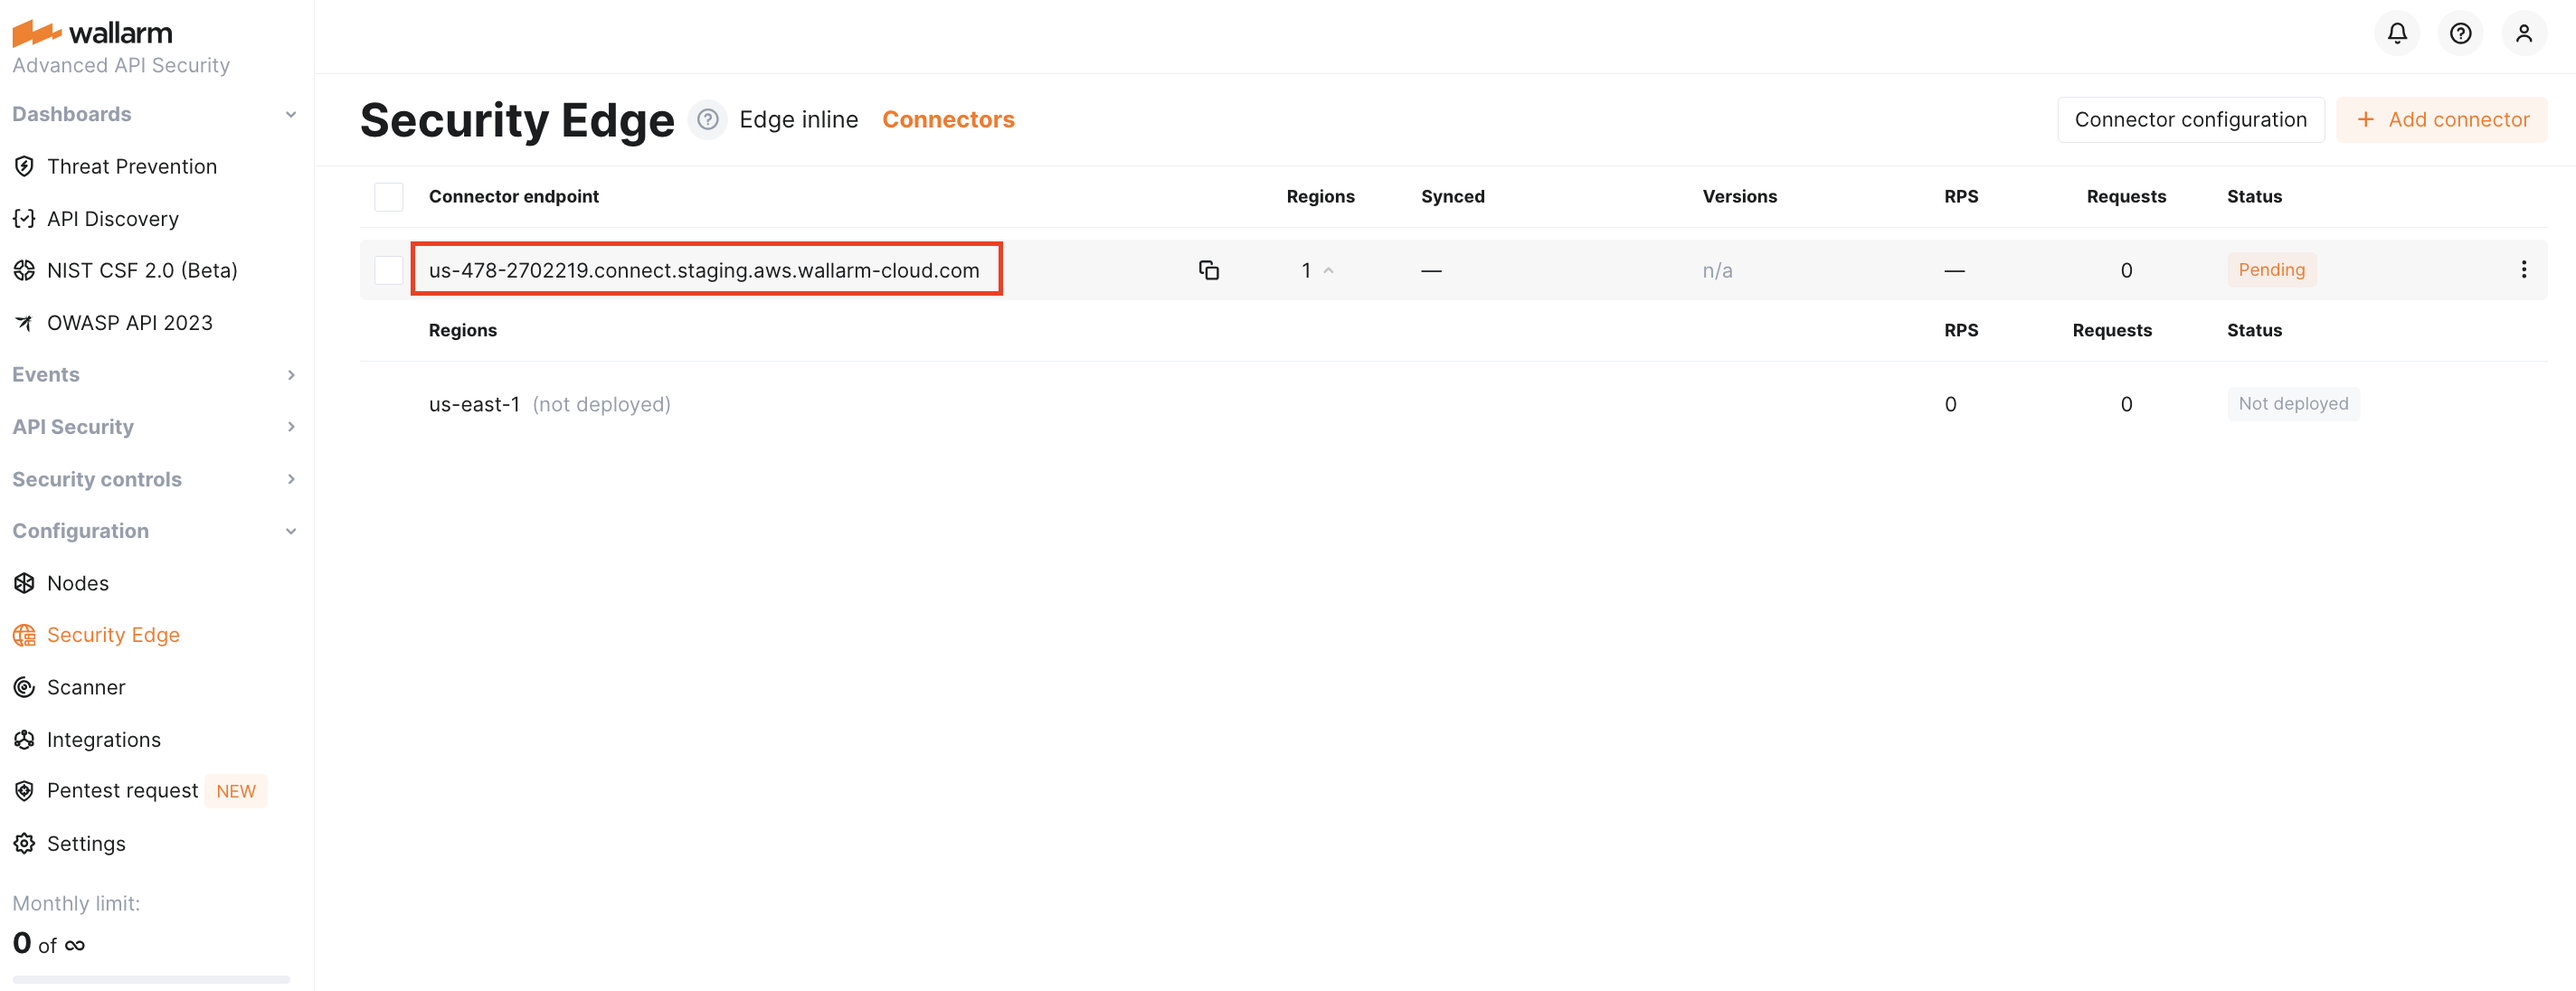
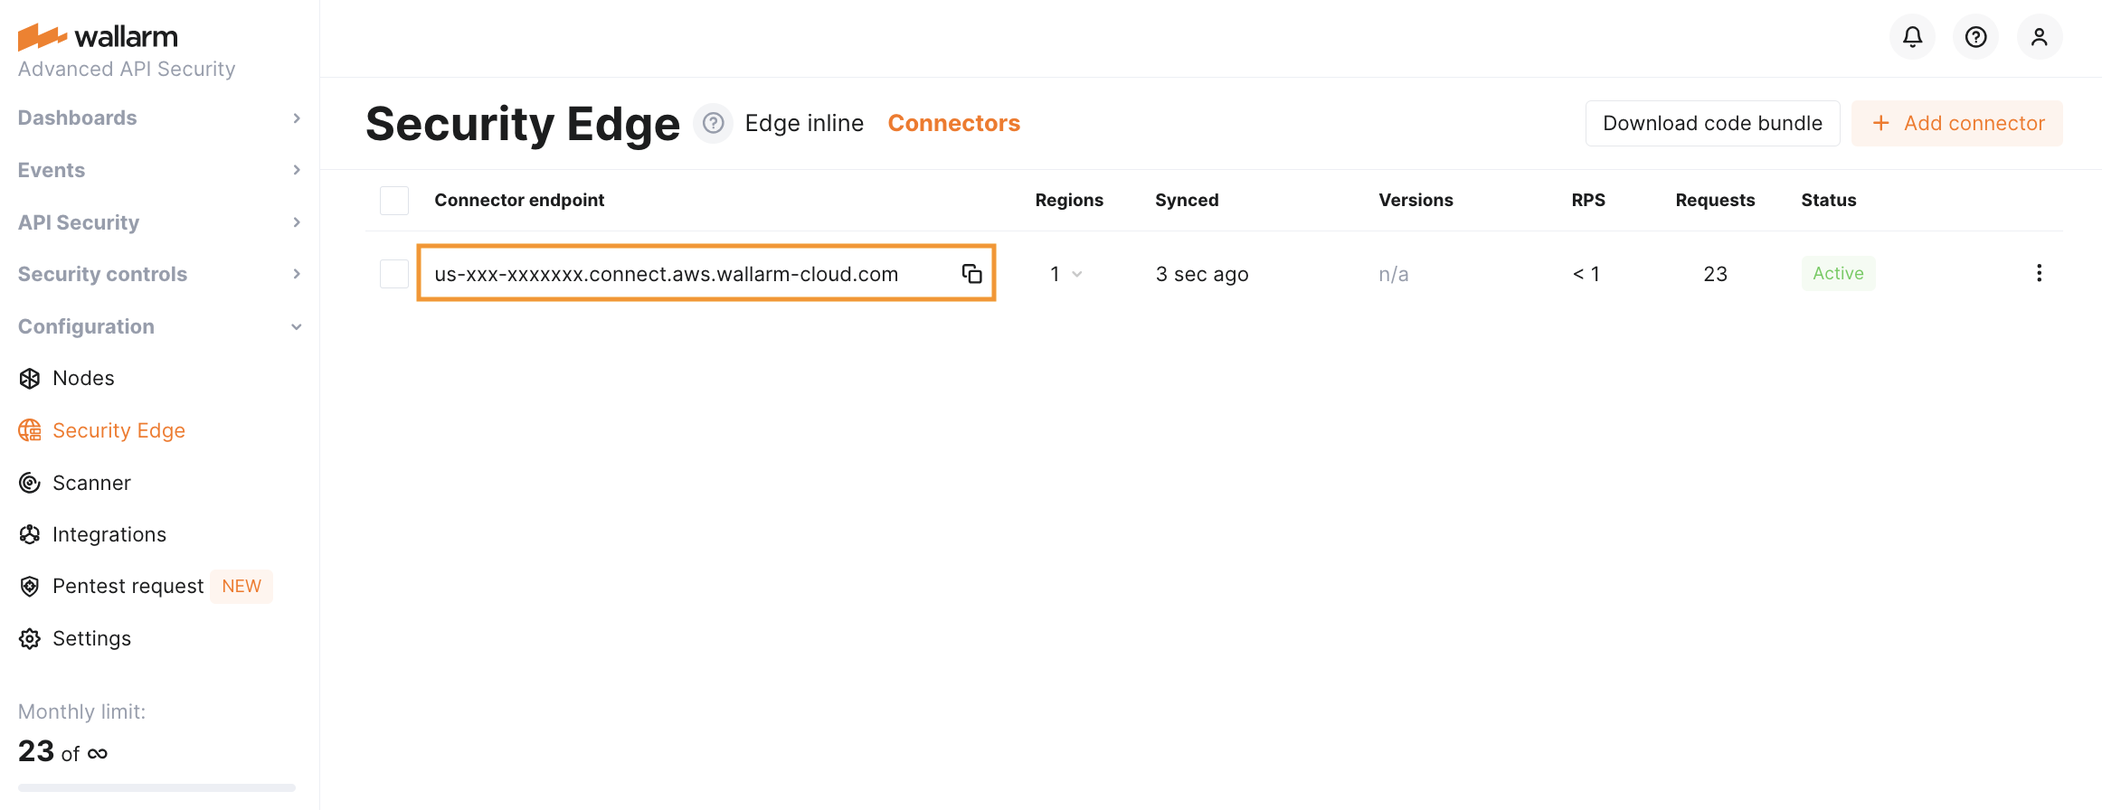
wording in the se connector descriptions

diff --git a/docs/latest/installation/se-connector.md b/docs/latest/installation/se-connector.md
@@ -19,7 +19,9 @@ Security Edge service provides a secure cloud environment where the Wallarm node
 !!! info "Supported platforms"
     Currently, Edge connectors are available only for MuleSoft, CloudFront, and Cloudflare.
 
-## Deploying the Edge node for a connector
+## Running Security Edge Connectors
+
+### 1. Deploying the Edge node for a connector
 
 You only need to specify the connector settings. Wallarm will handle the deployment and provide you with an endpoint to route traffic from your platform.
 
@@ -51,17 +53,27 @@ One endpoint can handle multiple connections from different hosts.
 
 ![!](../images/waf-installation/security-edge/connectors/copy-endpoint.png)
 
-## Injecting Wallarm code on a platform running your APIs
+You can change the Edge node deployment settings at any time while the node is in **Active** status. The node will be re-deployed, starting from the **Pending** status to **Active**. The endpoint will not change, but it will be unavailable during the re-deployment process.
 
-After deploying the Edge node, you will need to inject Wallarm code into your platform to route traffic to the deployed node. Follow the instructions below for this process:
+### 2. Injecting Wallarm code on a platform running your APIs
 
-* [MuleSoft](connectors/mulesoft.md)
-* [CloudFront](connectors/aws-lambda.md)
-* [Cloudflare](connectors/cloudflare.md)
+After deploying the Edge node, you will need to inject Wallarm code into your platform to route traffic to the deployed node.
 
-<!-- add the schreenshot with the green status and RPS and with no "staging" mentioned
-rename the "connector configuration" button the connectors
-mention that users can edit settings on the deployment SE and that can delete and what happens if they delete the SE deployment
-if the SE node, code connector is downloaded from the UI. if self-hosted, it should be requested from the sales team
-mention that we upgrade the edge node oursleves. latest stable with all features
- -->
+1. Download a code bundle for your platform from the Wallarm Console UI.
+
+    ![!](../images/waf-installation/security-edge/connectors/download-code-bundle.png)
+1. Apply the bundle on your API management platform following the instructions:
+
+    * [MuleSoft](connectors/mulesoft.md#2-obtain-and-upload-the-wallarm-policy-to-mulesoft-exchange)
+    * [CloudFront](connectors/aws-lambda.md#2-obtain-and-deploy-the-wallarm-lambdaedge-functions)
+    * [Cloudflare](connectors/cloudflare.md#2-obtain-and-deploy-the-wallarm-worker-code)
+
+## Deleting the Edge node
+
+If you delete the Edge node, its endpoint becomes unavailable, and you will no longer be able to redirect traffic through it for security analysis.
+
+The Wallarm code bundle injected into your platform will still try to reach the node endpoint specified in the bundle settings. However, it will fail with the `failed: Couldn't resolve address` error, and traffic will continue to flow to its target without passing through the Edge node.
+
+## Troubleshooting
+
+--8<-- "../include/waf/installation/security-edge/connector-troubleshooting.md"

diff --git a/docs/latest/installation/connectors/mulesoft.md b/docs/latest/installation/connectors/mulesoft.md
@@ -1,7 +1,6 @@
 [ptrav-attack-docs]:                ../../attacks-vulns-list.md#path-traversal
 [attacks-in-ui-image]:              ../../images/admin-guides/test-attacks-quickstart.png
 [filtration-mode-docs]:             ../../admin-en/configure-wallarm-mode.md
-[wallarm-hosted-connector-desc]:    ../connectors/overview.md#wallarm-edge-connectors
 [se-connector-setup-img]:           ../../images/waf-installation/se-connector-setup.png
 
 # Wallarm Connector for MuleSoft
@@ -118,7 +117,7 @@ You can deploy it either hosted by Wallarm or in your own infrastructure, depend
 
 To acquire and upload the Wallarm policy to Mulesoft Exchange, follow these steps:
 
-1. Proceed to Wallarm Console → **Security Edge** → **Connectors** → **Connector configuration** and download a code bundle for your platform.
+1. Proceed to Wallarm Console → **Security Edge** → **Connectors** → **Download code bundle** and download a code bundle for your platform.
 1. Extract the policy archive.
 1. Within the `pom.xml` file → `groupId` parameter at the top of the file, specify your Mulesoft Business Group ID.
 
@@ -224,8 +223,6 @@ To uninstall the policy, simply perform the first step of the update process.
 
 ## Troubleshooting
 
-* If the solution does not perform as expected, refer to the logs of your API by accessing Mulesoft Anypoint Platform → **Runtime Manager** → your application → **Logs**.
+If the solution does not perform as expected, refer to the logs of your API by accessing Mulesoft Anypoint Platform → **Runtime Manager** → your application → **Logs**.
 
-    You can also verify whether the policy is applied to the API by navigating to your API in the **API Manager** and reviewing the policies applied on the **Policies** tab. For automated policies, you can use the **See covered APIs** option to view the APIs covered and the reasons for any exclusions.
-
---8<-- "../include/waf/installation/security-edge/connector-troubleshooting.md"
+You can also verify whether the policy is applied to the API by navigating to your API in the **API Manager** and reviewing the policies applied on the **Policies** tab. For automated policies, you can use the **See covered APIs** option to view the APIs covered and the reasons for any exclusions.

diff --git a/docs/latest/installation/connectors/overview.md b/docs/latest/installation/connectors/overview.md
@@ -6,7 +6,7 @@ API deployment can be done in various ways, including utilizing external tools s
 
 Wallarm's connector solution integrates with third-party platforms, such as API gateways or edge platforms, to filter and analyze traffic. The solution operates with two main components:
 
-* The **Wallarm node**, hosted either by Wallarm or the client, performs traffic analysis and security checks.
+* The **Wallarm node**, hosted either by [Wallarm](../se-connector.md) or the client, performs traffic analysis and security checks.
 * A **Wallarm-provided code bundle or policy** which is injected into the third-party platform to route traffic for analysis to the Wallarm node.
 
 With connectors, traffic can be analyzed either [in-line](../inline/overview.md) or [out-of-band](../oob/overview.md):
@@ -18,17 +18,6 @@ With connectors, traffic can be analyzed either [in-line](../inline/overview.md)
     ![image](../../images/waf-installation/general-traffic-flow-for-connectors-inline.png)
 === "Out-of-band traffic flow"
     ![image](../../images/waf-installation/general-traffic-flow-for-connectors-oob.png)
-
-## Security Edge connectors
-
-Security Edge Connectors are those where the Wallarm node is deployed, hosted, and managed by Wallarm in a secure cloud environment:
-
-* **Autoscaling**: node instances automatically scale to handle varying traffic loads.
-* **Region selection**: choose deployment regions closer to your infrastructure for better performance and redundancy.
-* **Allowed source hosts**: control which hosts are allowed to send traffic to the node.
-
-!!! info "Supported platforms"
-    Currently, Edge connectors are available only for Mulesoft, CloudFront, and Cloudflare.
 
 ## Supported platforms
 

diff --git a/docs/latest/installation/connectors/aws-lambda.md b/docs/latest/installation/connectors/aws-lambda.md
@@ -1,6 +1,5 @@
 [ptrav-attack-docs]:                ../../attacks-vulns-list.md#path-traversal
 [attacks-in-ui-image]:              ../../images/admin-guides/test-attacks-quickstart.png
-[wallarm-hosted-connector-desc]:    ../connectors/overview.md#wallarm-edge-connectors
 [filtration-mode-docs]:             ../../admin-en/configure-wallarm-mode.md
 [se-connector-setup-img]:           ../../images/waf-installation/se-connector-setup.png
 
@@ -128,7 +127,7 @@ To connect your CloudFront CDN with the Wallarm node, you need to deploy the Wal
 
 There are two Python-based functions: one for request forwarding and analysis, and another for response forwarding and analysis.
 
-1. Proceed to Wallarm Console → **Security Edge** → **Connectors** → **Connector configuration** and download a code bundle for your platform.
+1. Proceed to Wallarm Console → **Security Edge** → **Connectors** → **Download code bundle** and download a code bundle for your platform.
 1. Proceed to your AWS Console → **Services** → **Lambda** → **Functions**.
 1. Select the `us-east-1` (N. Virginia) region which is [required for Lambda@Edge functions](https://docs.aws.amazon.com/AmazonCloudFront/latest/DeveloperGuide/lambda-edge-how-it-works-tutorial.html#lambda-edge-how-it-works-tutorial-create-function).
 1. **Create function** with the following settings:
@@ -172,7 +171,3 @@ To test the functionality of the deployed functions, follow these steps:
     ![Attacks in the interface][attacks-in-ui-image]
 
     If the Wallarm node mode is set to blocking, the request will also be blocked.
-
-## Troubleshooting
-
---8<-- "../include/waf/installation/security-edge/connector-troubleshooting.md"

diff --git a/docs/latest/installation/connectors/cloudflare.md b/docs/latest/installation/connectors/cloudflare.md
@@ -1,6 +1,5 @@
 [ptrav-attack-docs]:                ../../attacks-vulns-list.md#path-traversal
 [attacks-in-ui-image]:              ../../images/admin-guides/test-attacks-quickstart.png
-[wallarm-hosted-connector-desc]:    ../connectors/overview.md#wallarm-edge-connectors
 [filtration-mode-docs]:             ../../admin-en/configure-wallarm-mode.md
 [se-connector-setup-img]:           ../../images/waf-installation/se-connector-setup.png
 
@@ -119,7 +118,7 @@ You can deploy it either hosted by Wallarm or in your own infrastructure, depend
 
 To run a Cloudflare worker routing traffic to the Wallarm node:
 
-1. Proceed to Wallarm Console → **Security Edge** → **Connectors** → **Connector configuration** and download a code bundle for your platform.
+1. Proceed to Wallarm Console → **Security Edge** → **Connectors** → **Download code bundle** and download a code bundle for your platform.
 1. [Create a Cloudflare worker](https://developers.cloudflare.com/workers/get-started/dashboard/) using the downloaded code.
 1. Set the address of your [Wallarm node instance](#1-deploy-a-wallarm-node) in the `wallarm_node` parameter.
 1. If using [out-of-band](../oob/overview.md) mode, set the `wallarm_mode` parameter to `async`.
@@ -148,7 +147,3 @@ To test the functionality of the deployed solution, follow these steps:
     ![Attacks in the interface][attacks-in-ui-image]
 
     If the Wallarm node mode is set to blocking and the traffic flows in-line, the request will also be blocked.
-
-## Troubleshooting
-
---8<-- "../include/waf/installation/security-edge/connector-troubleshooting.md"

diff --git a/docs/latest/admin-en/configure-wallarm-mode.md b/docs/latest/admin-en/configure-wallarm-mode.md
@@ -103,7 +103,7 @@ Note that described configuration is applicable only for [in-line](../installati
 
 === "Connectors"
 
-    For [Security Edge connectors](../installation/connectors/overview.md#wallarm-edge-connectors), you specify the `wallarm_mode` value in the **Filtration mode** selector during the connector deployment.
+    For [Security Edge connectors](../installation/se-connector.md), you specify the `wallarm_mode` value in the **Filtration mode** selector during the connector deployment.
 
 === "CDN node"
 

diff --git a/docs/latest/installation/security-edge/deployment.md b/docs/latest/installation/security-edge/deployment.md
@@ -42,3 +42,7 @@ Security Edge service provides a secure cloud environment where the Wallarm node
 * Second-level domains are not supported  (e.g., instead `domain.com` use `www.domain.com`).
 * Only domains shorter than 64 characters are supported.
 * Only HTTPS traffic is supported; HTTP is not allowed.
+
+## Upgrading the Edge node
+
+Since the Edge node is a managed solution, Wallarm takes care of all upgrades. The latest stable node version is always deployed on the Edge.
